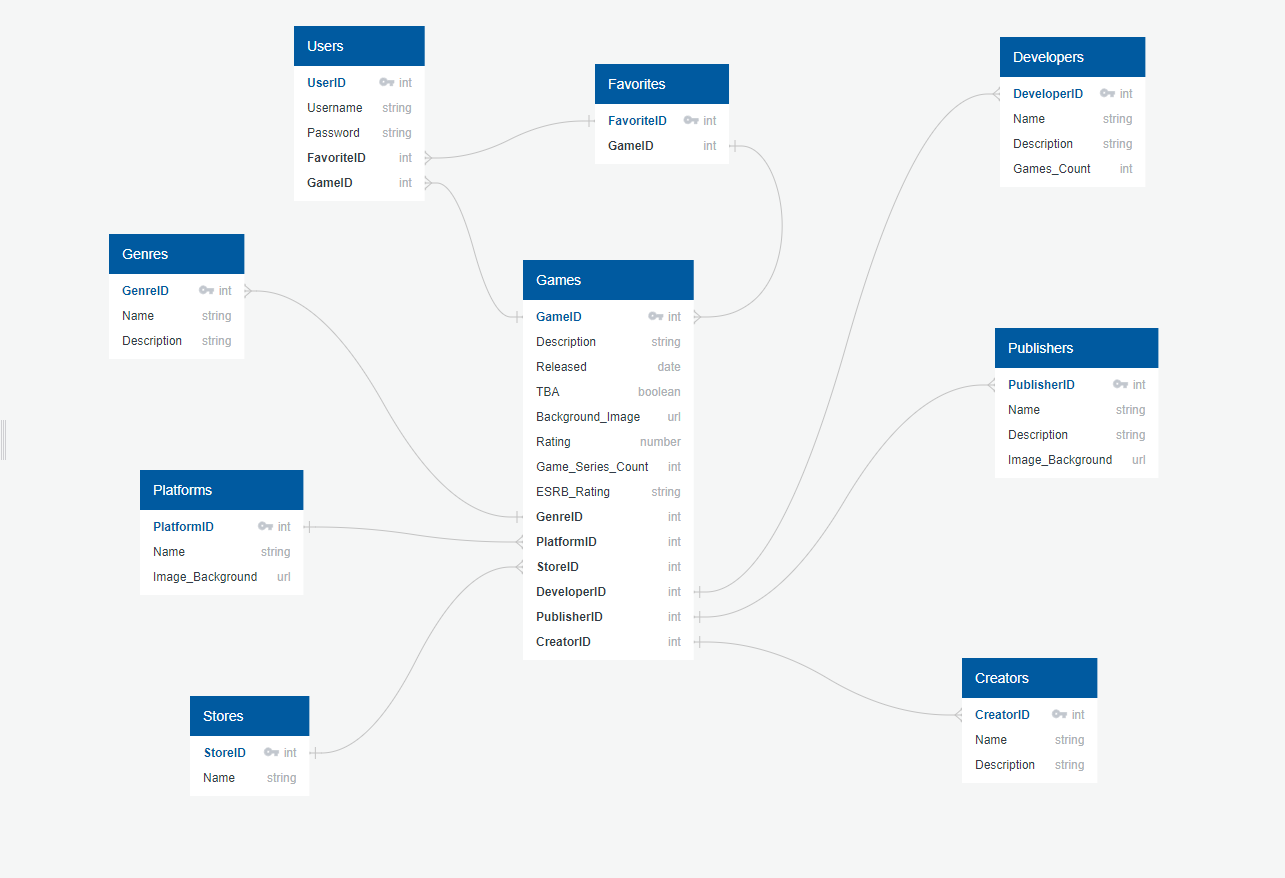
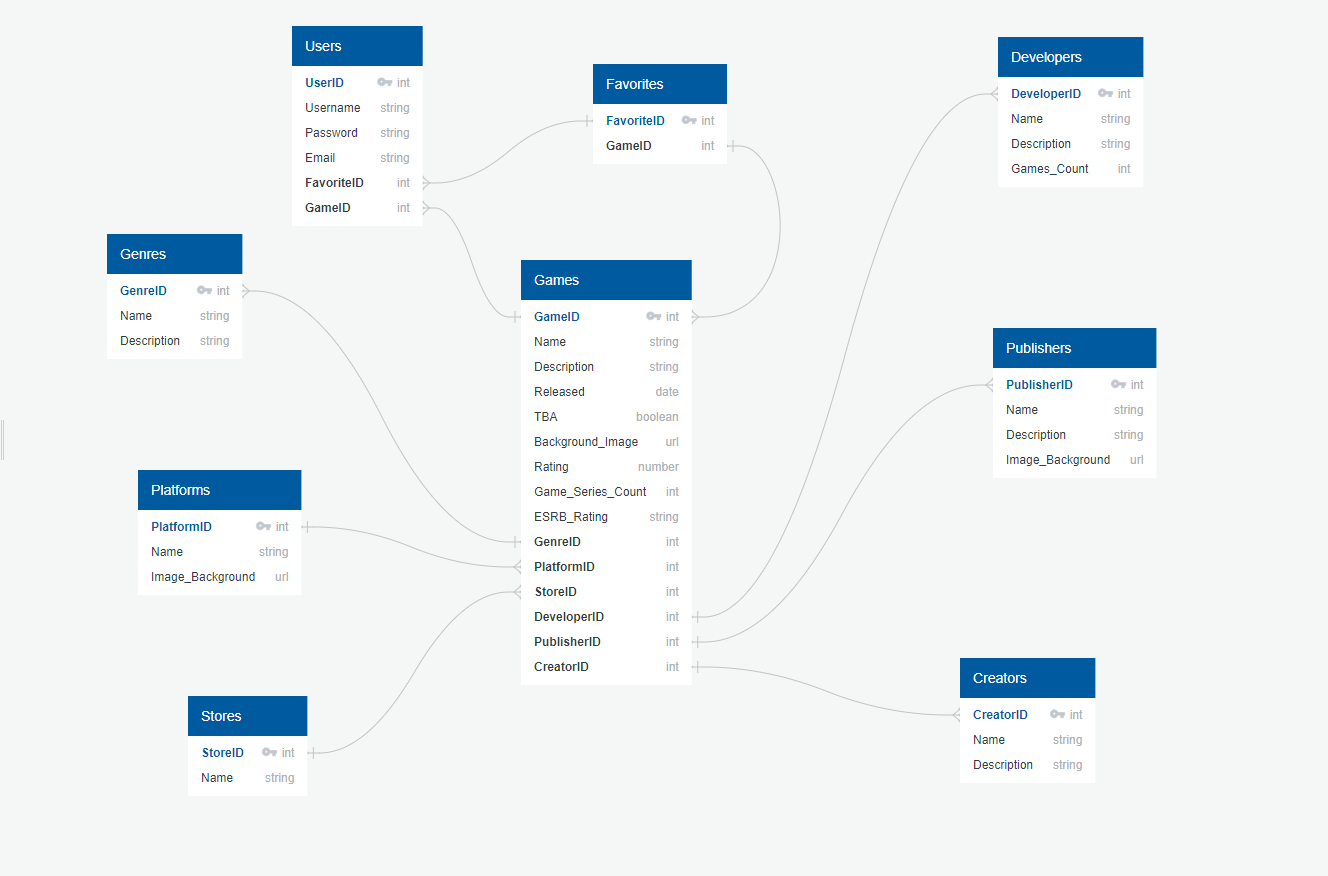
adding models to models.py and updating database schema design

diff --git a/models.py b/models.py
@@ -9,7 +9,123 @@ def connect_db(app):
     db.app = app
     db.init_app(app)
 
+
 class User(db.Model):
     __tablename__ = "users"
 
     id = db.Column(db.Integer, primary_key=True, autoincrement=True)
+    username = db.Column(db.Text, nullable=False, unique=True)
+    password = db.Column(db.Text, nullable=False)
+    email = db.Column(db.Text, nullable=False, unique=True)
+    favorite_id = db.Column(db.Integer, db.ForeignKey('favorites.id', ondelete='cascade'))
+    game_id = db.Column(db.Integer, db.ForeignKey('games.id', ondelete='cascade'))
+
+
+    def __repr__(self):
+        return f"<User #{self.id}: {self.username}, {self.email}>"
+
+    @classmethod
+    def signup(cls, username, email, password)
+    """Sing up user. Hashes password adn adds user to system."""
+
+    hashed_pwd = bcrypt.generate_password_hash(password).decode('UTF-8')
+
+    user = User(
+        username=username,
+        email=email,
+        password=hashed_pwd
+    )
+
+    db.session.add(user)
+    return user
+    
+
+    @classmethod
+    def authenticate(cls, username, password):
+        """Find user with 'username' and 'password."""
+
+        user = cls.query.filter_by(username=username).first()
+
+        if user:
+            is_auth = bcrypt.check_password_hash(user.password, password)
+            if is_auth:
+                return user
+        return False
+
+
+class Favorite(db.Model):
+    __tablename__ = 'favorites'
+
+    id = db.Column(db.Integer, primary_key=True, autoincrement=True)
+    game_id = db.Column(db.Integer, db.ForeignKey('games.id', ondelete='cascade'))
+
+
+class Game(db.Model):
+    __tablename__ = 'games'
+
+    id = db.Column(db.Integer, primary_key=True, autoincrement=True)
+    name = db.Column(db.String, nullable=False)
+    description = db.Column(db.Text, nullable=False)
+    released = db.Column(db.Date)
+    tba = db.Column(db.Boolean)
+    background_image = db.Column(db.Text)
+    rating = db.Column(db.Integer)
+    game_series_count = db.Column(db.Integer)
+    esrb_rating = db.Column(db.String, nullable=False)
+    genre_id = db.Column(db.Integer, db.ForeignKey('genres.id', ondelete='cascade'))
+    platform_id = db.Column(db.Integer, db.ForeignKey('platforms.id', ondelete='cascade'))
+    store_id = db.Column(db.Integer, db.ForeignKey('stores.id', ondelete='cascade'))
+    developer_id = db.Column(db.Integer, db.ForeignKey('developers.id', ondelete='cascade'))
+    publisher_id = db.Column(db.Integer, db.ForeignKey('publishers.id', ondelete='cascade'))
+    creator_id = db.Column(db.Integer, db.ForeignKey('creators.id', ondelete='cascade'))
+
+
+class Genre(db.Model):
+    __tablename__ = 'genres'
+
+    id = db.Column(db.Integer, primary_key=True, autoincrement=True)
+    name = db.Column(db.String, nullable=False)
+    description = db.Column(db.Text)
+
+
+class Platform(db.Model):
+    __tablename__ = 'platforms'
+
+    id = db.Column(db.Integer, primary_key=True, autoincrement=True)
+    name = db.Column(db.String, nullable=False)
+    image_background = db.Column(db.Text)
+
+
+class Store(db.Model):
+    __tablename__ = 'stores'
+
+    id = db.Column(db.Integer, primary_key=True, autoincrement=True)
+    name = db.Column(db.String, nullable=False)
+
+
+class Developer(db.Model):
+    __tablename__ = 'developers'
+
+    id = db.Column(db.Integer, primary_key=True, autoincrement=True)
+    name = db.Column(db.String, nullable=False)
+    description = db.Column(db.Text)
+    games_count = db.Column(db.Integer)
+
+
+class Publisher(db.Model):
+    __tablename__ = 'publishers'
+
+    id = db.Column(db.Integer, primary_key=True, autoincrement=True)
+    name = db.Column(db.String, nullable=False)
+    description = db.Column(db.Text)
+    image_background = db.Column(db.Text)
+
+
+class Creator(db.Model):
+    __tablename__ = 'creators'
+
+    id = db.Column(db.Integer, primary_key=True, autoincrement=True)
+    name = db.Column(db.String, nullable=False)
+    description = db.Column(db.Text)
+
+

diff --git a/app.py b/app.py
@@ -2,7 +2,7 @@ from flask import Flask, redirect, request, render_template, session, flash
 from flask_debugtoolbar import DebugToolbarExtension
 from sqlalchemy.exc import ItegrityError
 
-from models import db, connect_db, 
+from models import db, connect_db, User, Favorite, Game, Genre, Platform, Store, Developer, Publisher, Creator
 from forms import
 
 app = Flask(__name__)
